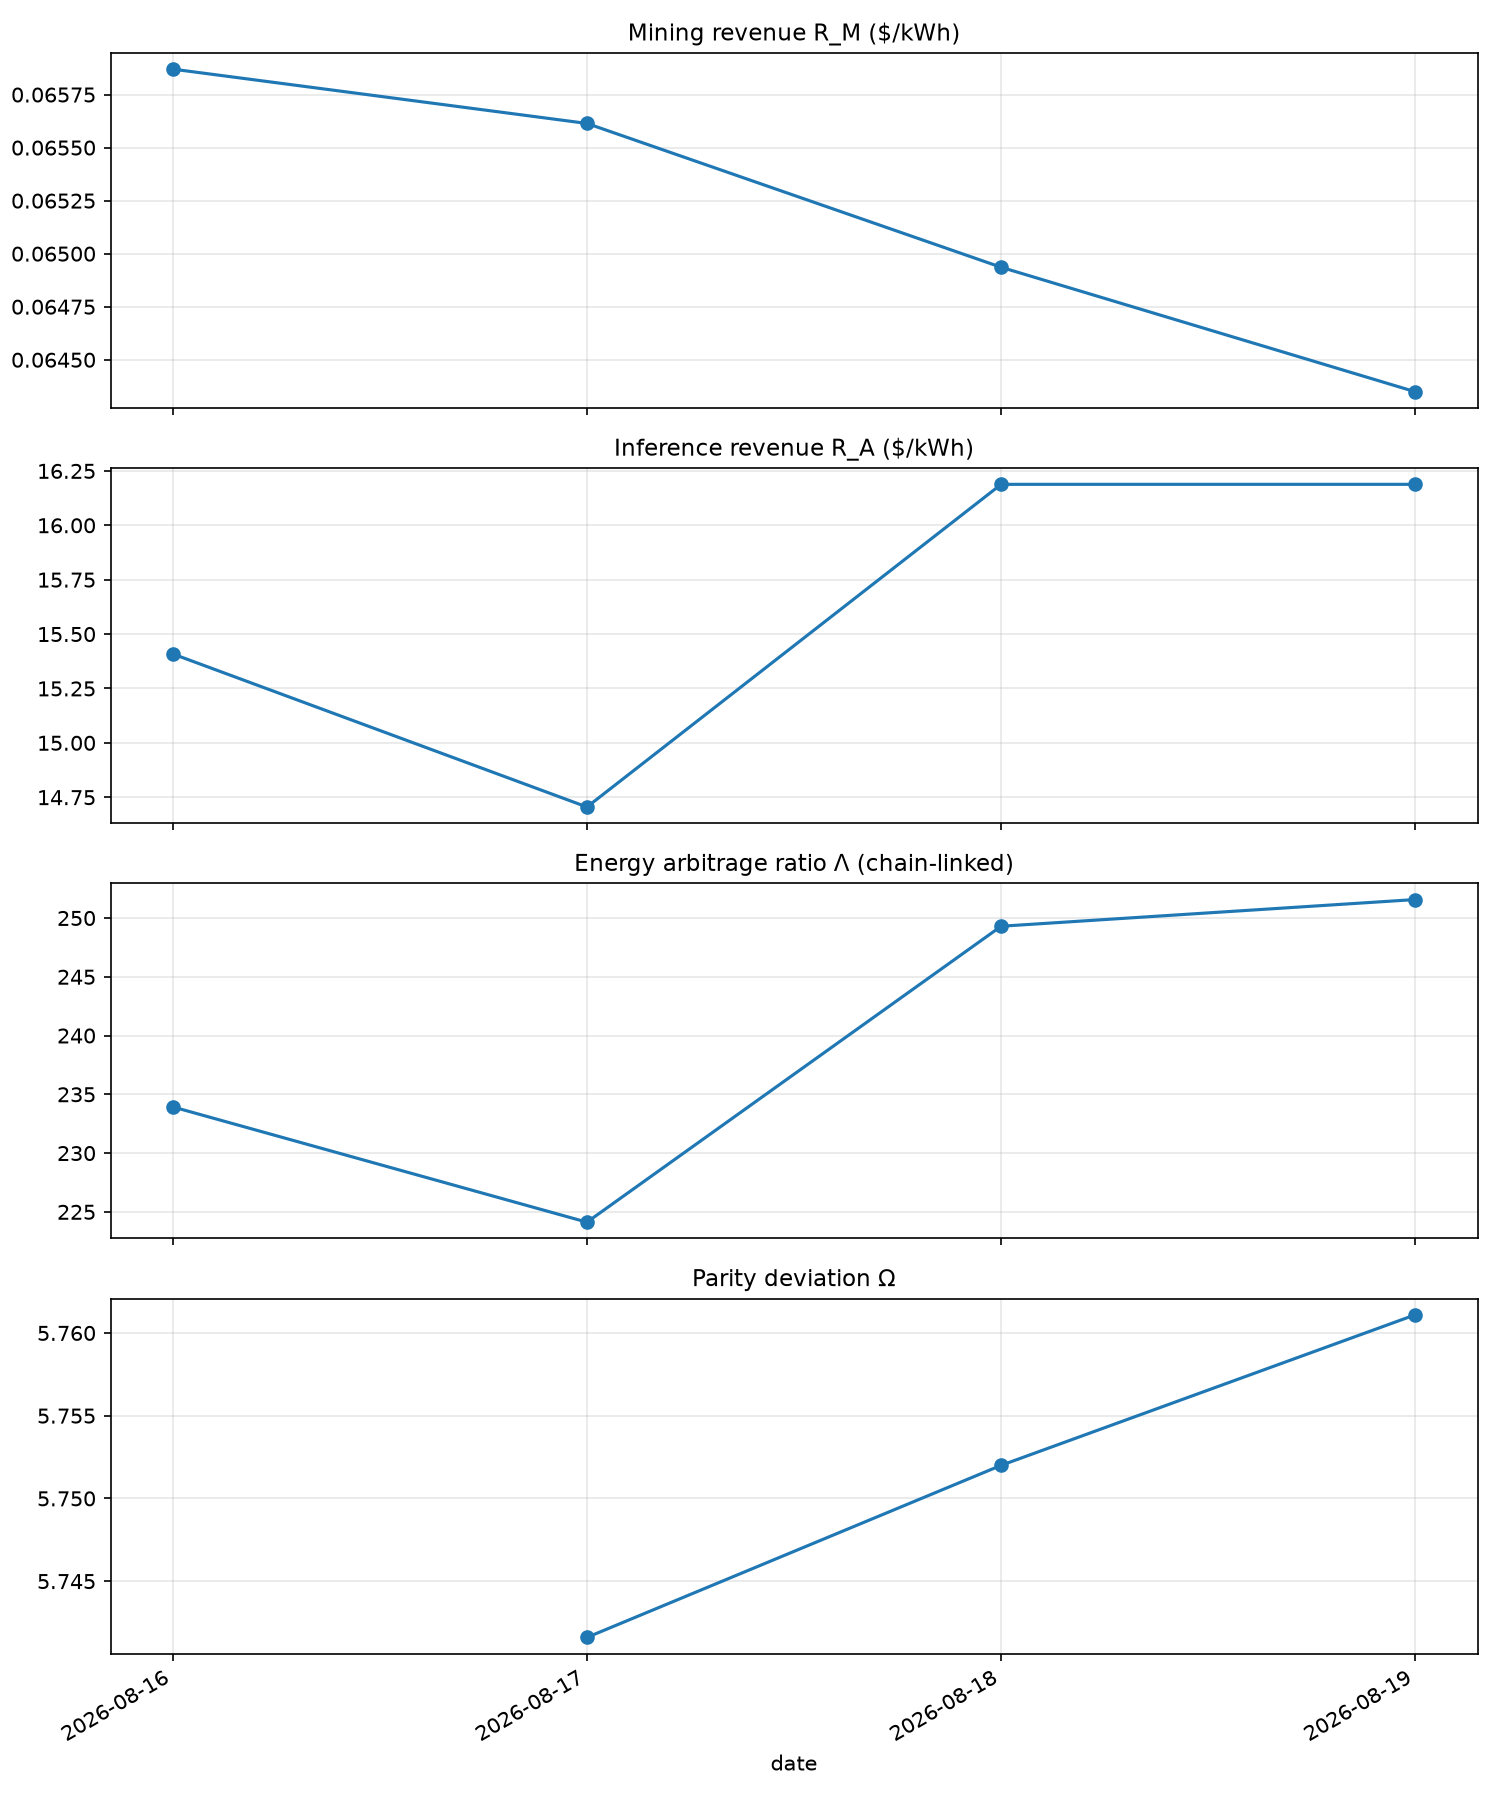
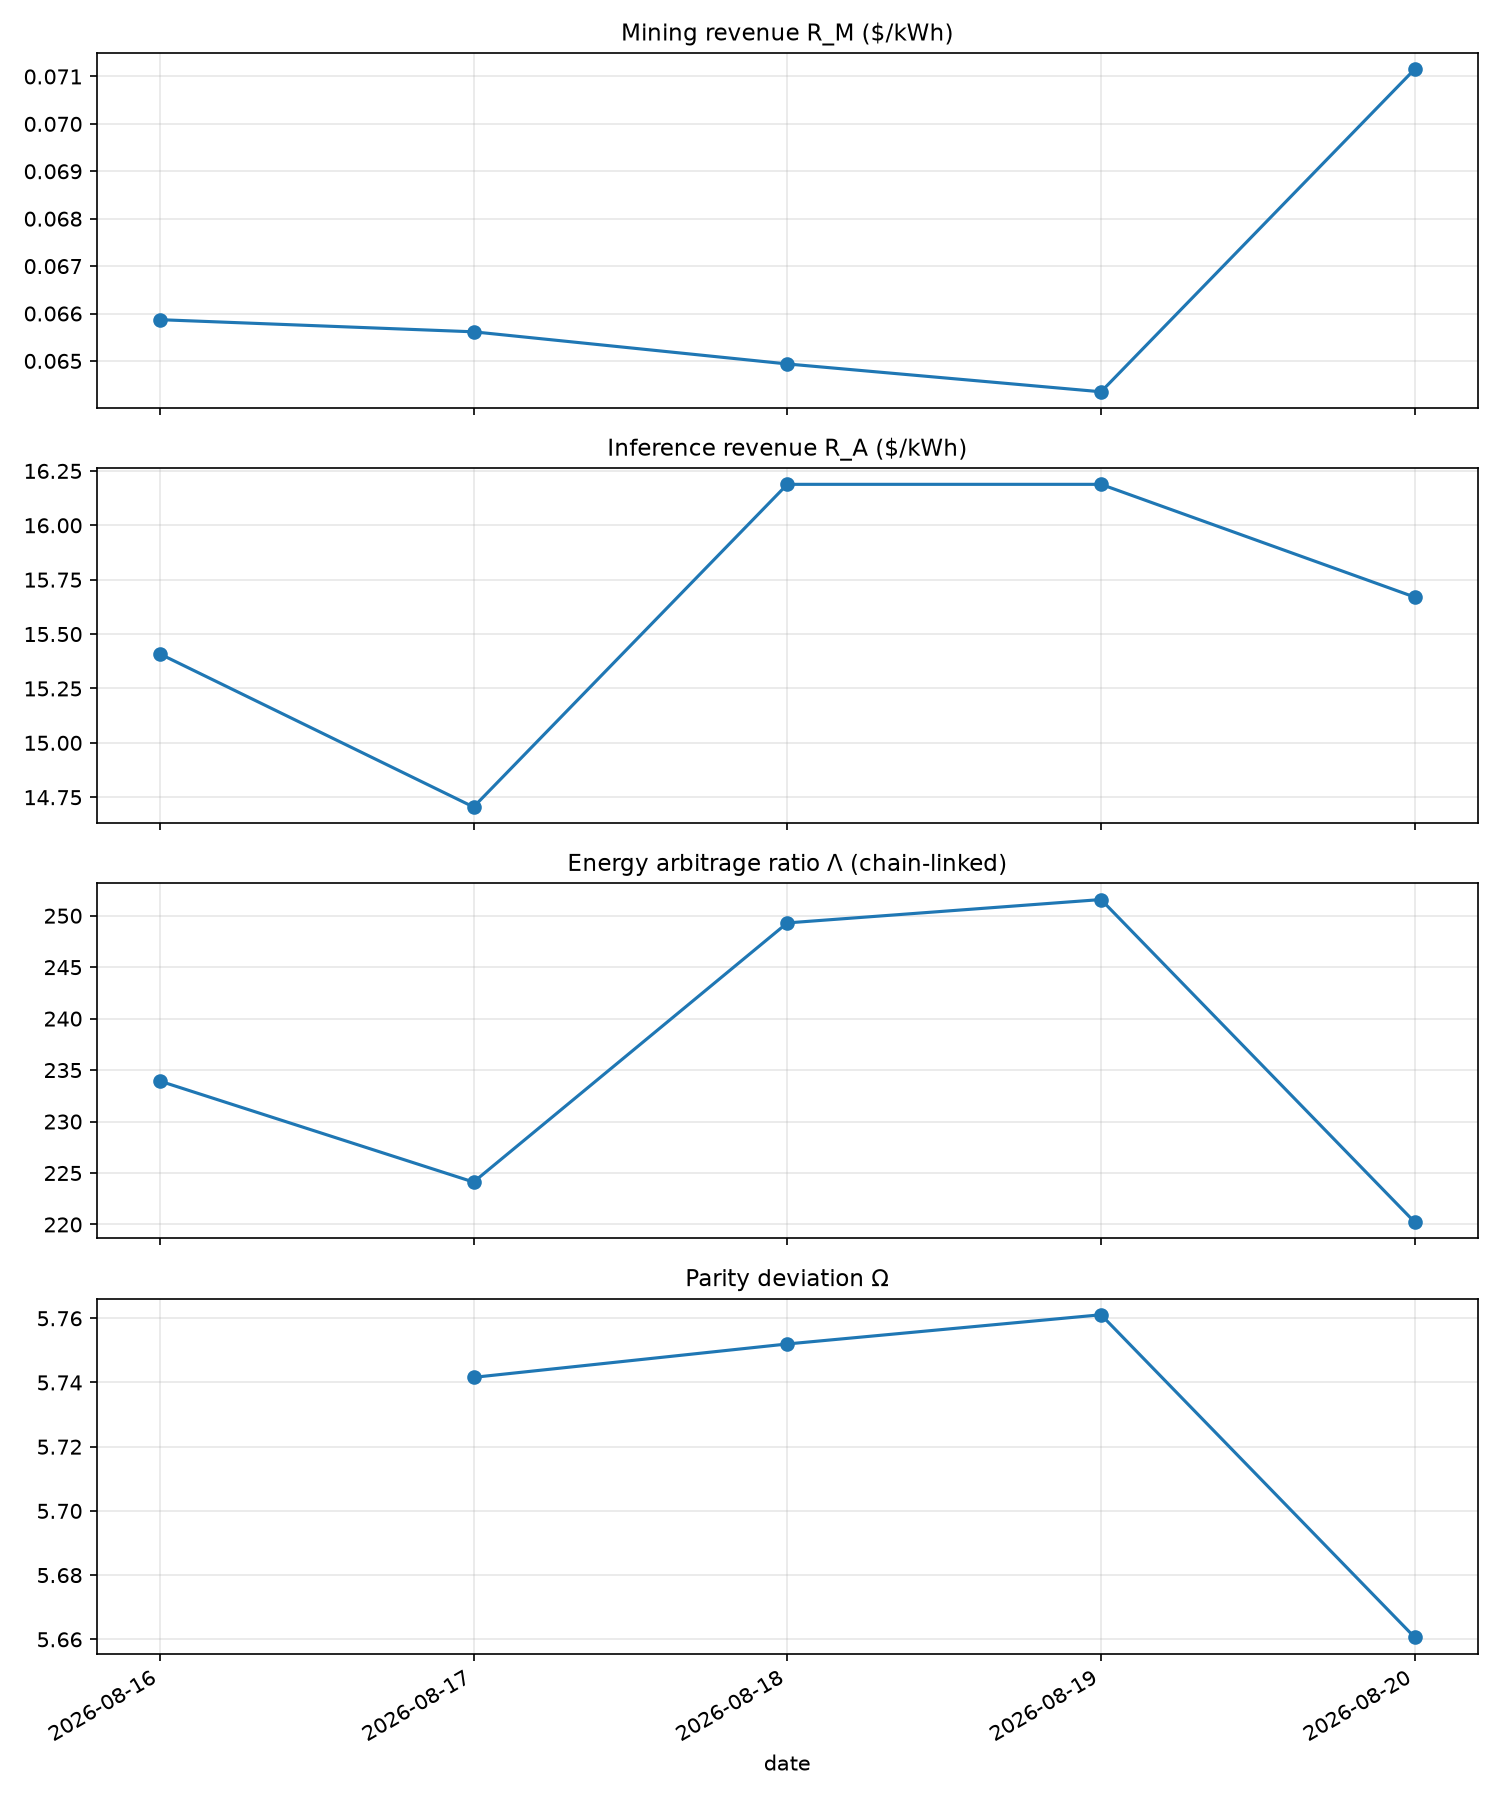
daily update 2026-08-20

diff --git a/docs/index.html b/docs/index.html
@@ -96,7 +96,7 @@ footer a { color: var(--faint); }
   <div class="eyebrow">Abundantics · 丰裕学 / 实证模块 01</div>
   <h1>Token 能量平价指数</h1>
   <p class="sub">同一焦耳，两种耗散：AI 推理 token 与 PoW 加密货币折算到同一物理公分母（每千瓦时收入）后的日频指数族。</p>
-  <div class="stamp">最近更新 2026-08-19 · 数据源 CoinGecko / mempool.space / OpenRouter · 自动更新</div>
+  <div class="stamp">最近更新 2026-08-20 · 数据源 CoinGecko / mempool.space / OpenRouter · 自动更新</div>
 </header>
 
 <div class="kwh">
@@ -107,29 +107,29 @@ footer a { color: var(--faint); }
     <div class="tick" style="left:33.3%"><span>$0.10</span></div>
     <div class="tick" style="left:66.7%"><span>$1</span></div>
     <div class="tick" style="left:98.0%"><span>$10</span></div>
-    <div class="pin mine" style="left:27.0%"><b>挖矿 $0.064</b></div>
-    <div class="pin infer" style="left:98.0%"><b>推理 $16.19</b></div>
+    <div class="pin mine" style="left:28.4%"><b>挖矿 $0.071</b></div>
+    <div class="pin infer" style="left:98.0%"><b>推理 $15.67</b></div>
   </div>
-  <div class="verdict">当前能量套利比 <strong>Λ = 251.6</strong>：一度电喂给推理的毛收入是喂给挖矿的 252 倍（毛收入口径，未扣 GPU 折旧等非电成本）。</div>
+  <div class="verdict">当前能量套利比 <strong>Λ = 220.2</strong>：一度电喂给推理的毛收入是喂给挖矿的 220 倍（毛收入口径，未扣 GPU 折旧等非电成本）。</div>
 </div>
 
 <div class="cards">
   <div class="card"><div class="k">R_M · 挖矿每度电毛收入</div>
-    <div class="v copper">$0.0643</div><div class="d">美元/kWh，由链上数据自算 hashprice ÷ 全网加权能耗</div></div>
+    <div class="v copper">$0.0712</div><div class="d">美元/kWh，由链上数据自算 hashprice ÷ 全网加权能耗</div></div>
   <div class="card"><div class="k">R_A · 推理每度电毛收入</div>
-    <div class="v cobalt">$16.19</div><div class="d">美元/kWh，用量加权模型篮子，标准 token 当量</div></div>
+    <div class="v cobalt">$15.67</div><div class="d">美元/kWh，用量加权模型篮子，标准 token 当量</div></div>
   <div class="card"><div class="k">Λ · 能量套利比</div>
-    <div class="v graphite">251.6</div><div class="d">R_A / R_M，毛收入口径 · 链式接续序列 · chain-linked</div></div>
+    <div class="v graphite">220.2</div><div class="d">R_A / R_M，毛收入口径 · 链式接续序列 · chain-linked</div></div>
   <div class="card"><div class="k">Ω · 平价偏离指数</div>
-    <div class="v oxblood">5.761</div><div class="d">ln(焦耳平价汇率 / 市场隐含汇率)，防御性 vs 生产性耗散的定价缺口</div></div>
+    <div class="v oxblood">5.661</div><div class="d">ln(焦耳平价汇率 / 市场隐含汇率)，防御性 vs 生产性耗散的定价缺口</div></div>
 </div>
 
 <section class="charts">
   <div class="chart-grid" id="jscharts">
-    <div class="chartbox"><h3 style="color:var(--copper)">R_M（$/kWh）</h3><div class="collecting">序列积累中（当前 4 天）· Collecting data (day 4）<br><span class="bigval" style="color:var(--copper)">0.0643</span></div></div>
-    <div class="chartbox"><h3 style="color:var(--cobalt)">R_A（$/kWh）</h3><div class="collecting">序列积累中（当前 4 天）· Collecting data (day 4）<br><span class="bigval" style="color:var(--cobalt)">16.19</span></div></div>
-    <div class="chartbox"><h3 style="color:var(--graphite)">Λ 能量套利比</h3><div class="collecting">序列积累中（当前 4 天）· Collecting data (day 4）<br><span class="bigval" style="color:var(--graphite)">251.6</span></div></div>
-    <div class="chartbox"><h3 style="color:var(--oxblood)">Ω 平价偏离指数</h3><div class="collecting">序列积累中（当前 3 天）· Collecting data (day 3）<br><span class="bigval" style="color:var(--oxblood)">5.761</span></div></div>
+    <div class="chartbox"><h3 style="color:var(--copper)">R_M（$/kWh）</h3><canvas id="c_rm"></canvas></div>
+    <div class="chartbox"><h3 style="color:var(--cobalt)">R_A（$/kWh）</h3><canvas id="c_ra"></canvas></div>
+    <div class="chartbox"><h3 style="color:var(--graphite)">Λ 能量套利比</h3><canvas id="c_l"></canvas></div>
+    <div class="chartbox"><h3 style="color:var(--oxblood)">Ω 平价偏离指数</h3><div class="collecting">序列积累中（当前 4 天）· Collecting data (day 4）<br><span class="bigval" style="color:var(--oxblood)">5.661</span></div></div>
   </div>
   <noscript><div class="fallback"><img src="parity_index.png" alt="指数历史曲线"></div></noscript>
   <div class="fallback" id="pngfallback" style="display:none"><img src="parity_index.png" alt="指数历史曲线"></div>
@@ -158,7 +158,7 @@ footer a { color: var(--faint); }
 </footer>
 </div>
 
-<script>window.__PARITY__ = {"dates": ["2026-08-16", "2026-08-17", "2026-08-18", "2026-08-19"], "series": {"R_M": [0.06587, 0.065614, 0.064936, 0.064349], "R_A": [15.4088, 14.7051, 16.1883, 16.1883], "Lambda": [233.93, 224.12, 249.3, 251.57], "Omega": [null, 5.7416, 5.752, 5.7611]}};</script>
+<script>window.__PARITY__ = {"dates": ["2026-08-16", "2026-08-17", "2026-08-18", "2026-08-19", "2026-08-20"], "series": {"R_M": [0.06587, 0.065614, 0.064936, 0.064349, 0.071155], "R_A": [15.4088, 14.7051, 16.1883, 16.1883, 15.6699], "Lambda": [233.93, 224.12, 249.3, 251.57, 220.22], "Omega": [null, 5.7416, 5.752, 5.7611, 5.6606]}};</script>
 <script src="https://cdnjs.cloudflare.com/ajax/libs/Chart.js/4.4.1/chart.umd.min.js"
         onerror="document.getElementById('jscharts').style.display='none';document.getElementById('pngfallback').style.display='block';"></script>
 <script>
